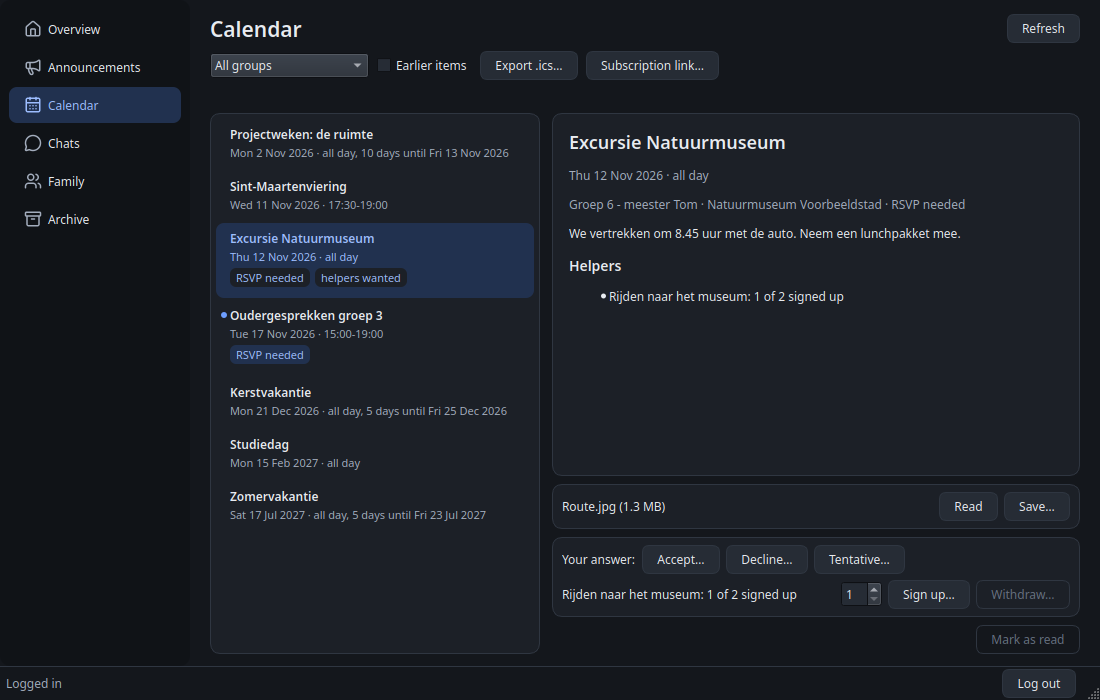
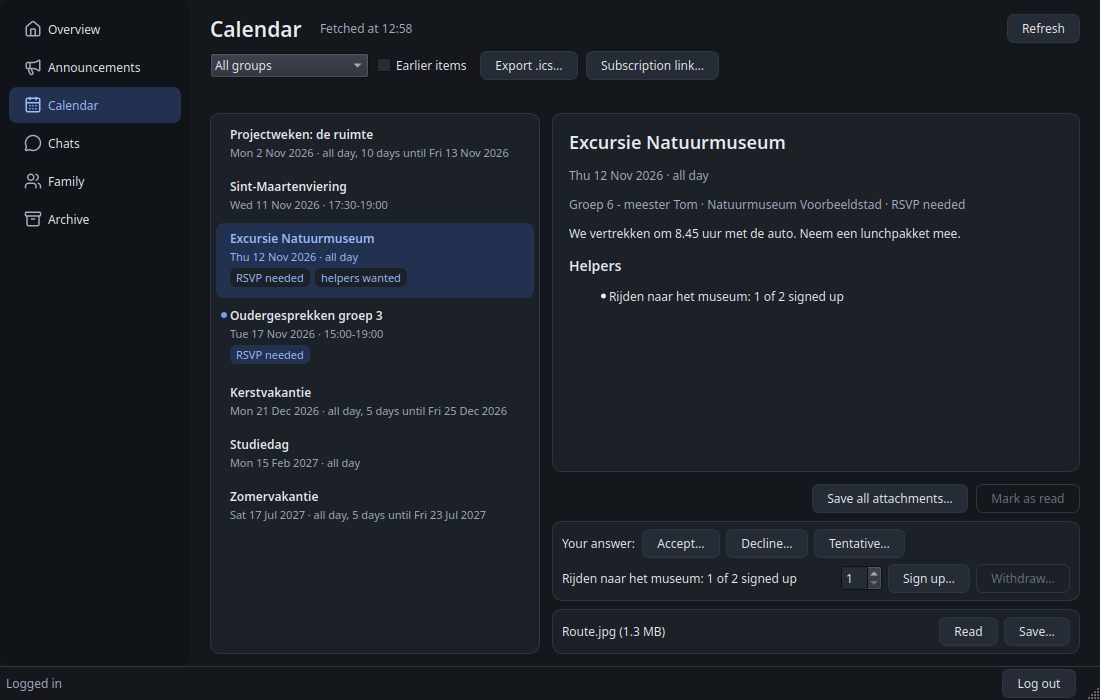
Docs for 0.11.0
The desktop app guide covers details that fit, Save all, the short memory
and logging in by itself; MCP.md the tool titles and hints; SECURITY.md
what is in scope for the remembered password file. The changelog has an
unreleased 0.11.0 section, and the desktop pictures show the new layout.

Changed region(s): [[0.4945, 0.72, 0.9891, 0.93], [0.7418, 0.69, 0.9891, 0.75], [0.2782, 0.03, 0.3709, 0.06]]

diff --git a/docs/DESKTOP-APP.md b/docs/DESKTOP-APP.md
@@ -29,13 +29,30 @@ keep working on Python 3.10 or newer.
 | Section | What you can do |
 | --- | --- |
 | Overview | what is new, or everything |
-| Announcements | filter by group or unread, read the news from Parro, read or save attachments, mark as read |
-| Calendar | coming up or earlier, filter by group, answer invitations, sign up or withdraw as a helper, export an `.ics` file, show the subscription link |
+| Announcements | filter by group or unread, read the news from Parro, read or save attachments (one or all at once), mark as read |
+| Calendar | coming up or earlier, filter by group, answer invitations, sign up or withdraw as a helper, save attachments (one or all at once), export an `.ics` file, show the subscription link |
 | Chats | the same filters as the command line, read a conversation, send a message, mark as read |
 | Family | the account, children, groups, the state of the privacy choices, the link to a child's privacy page |
 | Archive | keep a local copy with `sync`, stop it at any time, see and empty the cache |
 
 The commands `token` and `get` and the raw JSON output are left out: they are developer tools.
+
+**An announcement or calendar item with a lot in it** still fits in the window. Under the text is a
+row with *Save all attachments…* and *Mark as read*, which never scrolls away. Below that, the
+attachments and the answer and helper rows scroll when there are more than fit. Drag the line between
+the text and that lower part to give either more room; the lower part takes what it needs, up to
+half, until you do.
+
+**Save all attachments…** asks once for a folder, then saves every file of the item. It says how many
+it saved, and names each file that failed and why; click again to try those. A file with the same
+name is never replaced: the new one gets a number, such as `Nieuwsbrief (2).pdf`.
+
+**Fetched at 14:32**, next to a section's title, says how old what you see is. The app keeps what it
+fetched for 5 minutes, in memory only, so switching sections or going back to a filter choice is
+instant. After that, coming back loads again. **Refresh** always fetches, and so does every change
+you make: after *Mark as read*, an answer, a sign-up or a sent message, everything kept is dropped.
+Logging in or out drops it too. The Overview's unread counts can therefore be up to 5 minutes old,
+which the time next to them shows.
 
 ## Logging in
 
@@ -45,6 +62,37 @@ you end up on. Your password is not stored.
 
 The login server locks an account after a few failed attempts, so one click is one attempt and
 nothing is retried. After a rejected password the app says that login has stopped.
+
+### Logging in by itself
+
+A login lasts at most 8 hours ([LOGIN.md](LOGIN.md)). To skip typing the password every morning, put
+it in a file of its own and tick **"Log in by itself next time, with the password in this file"** in
+the login dialog. The app then logs in by itself when the login has expired: at start, and when it
+expires while the app is open. The rules are those of the command line:
+
+- **One password check** each time, never two, and never a retry.
+- **After a rejected password, nothing logs in by itself**, also not after a restart, until you log in
+  by hand in the dialog. The status bar says so.
+- **After you log out**, it waits for a login by hand too.
+- The status bar says when it did: *Logged in until … · logged in by itself at 08:12*.
+
+The app remembers only your e-mail address and **where** the file is, in `desktop-app.json` in its
+data folder (readable by you only). The password stays in your file, which must be private:
+
+```bash
+printf '%s' 'your password' > ~/.parro-password   # or create it with an editor
+chmod 600 ~/.parro-password
+```
+
+If others on the computer can read the file, the app does not use it and says why. Before it
+remembers anything, it checks that the file holds the password you typed, so a typo cannot stop the
+automatic logins later. To stop, untick the box and log in once. On Windows only "the file can be
+read" is checked: keep it in your own user folder.
+
+Started from a terminal, the app also uses `PARRO_USERNAME` and `PARRO_PASSWORD_FILE` (or
+`PARRO_PASSWORD`), like the command line; they win over what the dialog remembered. The app always
+uses the login form, also when `PARRO_LOGIN_METHOD` says `auto`, because `auto` can spend two
+password checks.
 
 ## Changing things
 

diff --git a/docs/PLAN-desktop-0.11.md b/docs/PLAN-desktop-0.11.md
@@ -1,6 +1,6 @@
 # Plan 14: version 0.11.0, a better desktop app and hints a scanner can read
 
-*Status: accepted (2026-11-12), with the recommended choice for all four decisions in §7. Not started.*
+*Status: in progress (2026-11-12): phases 1–6 done on branch `desktop-0.11`; the live check (phase 7) and the release are next. Decisions in §7.*
 
 **Goal:** five changes. Four are in the desktop app: details that always fit, saving all attachments at
 once, less waiting when you switch sections, and logging in by itself when you set that up. The fifth
@@ -151,12 +151,12 @@ small task: find out what M8ven needs, for example an entry in the MCP registry 
 
 | # | Phase | Done when |
 | --- | --- | --- |
-| 1 | **MCP hints in the source** (§5) | the `ast` guard test and `test_tool_hints.py` pass; `tools/list` is unchanged apart from the new titles |
-| 2 | **Details that fit** (§1) | the tests in §1 pass |
-| 3 | **Save all attachments** (§2) | tests against the fake API: one folder question, every file saved, failures named, nothing overwritten |
-| 4 | **Short memory and "Fetched at"** (§3) | tests: a kept answer within 5 minutes, a new load after it, *Refresh* and every change drop what was kept, nothing written to disk |
-| 5 | **Logging in by itself** (§4) | the tests in §4 pass |
-| 6 | **Docs:** `docs/DESKTOP-APP.md` (screens, password file, the memory), `docs/MCP.md`, `SECURITY.md` (the remembered path), changelog **0.11.0** | links and pictures checked |
+| 1 | ✅ **MCP hints in the source** (§5) | the `ast` guard test and `test_tool_hints.py` pass; `tools/list` is unchanged apart from the new titles |
+| 2 | ✅ **Details that fit** (§1) | the tests in §1 pass |
+| 3 | ✅ **Save all attachments** (§2) | tests against the fake API: one folder question, every file saved, failures named, nothing overwritten |
+| 4 | ✅ **Short memory and "Fetched at"** (§3) | tests: a kept answer within 5 minutes, a new load after it, *Refresh* and every change drop what was kept, nothing written to disk |
+| 5 | ✅ **Logging in by itself** (§4) | the tests in §4 pass |
+| 6 | ✅ **Docs:** `docs/DESKTOP-APP.md` (screens, password file, the memory), `docs/MCP.md`, `SECURITY.md` (the remembered path), changelog **0.11.0** | links and pictures checked |
 | 7 | **Live check with you:** the two items that broke the layout, switching sections, save all, and logging in by itself **once** (one password check) | in `docs/LIVE-CHECKS.md`; M8ven's report after the push |
 | 8 | Release **0.11.0** | published |
 

diff --git a/CHANGELOG.md b/CHANGELOG.md
@@ -4,6 +4,37 @@ All notable changes are listed here. The format follows [Keep a Changelog](https
 and versions follow [Semantic Versioning](https://semver.org/). The release workflow publishes the
 section of a version as its GitHub release notes, so write each section for users.
 
+## [0.11.0] - unreleased
+
+A better desktop app: details that always fit in the window, saving all attachments at once, less
+waiting when you switch sections, and logging in by itself from a password file. And the MCP tool
+hints can now be seen by services that read the code instead of running the server.
+
+### Added
+- **Save all attachments…** in Announcements and Calendar, next to *Mark as read*: one folder
+  question, then every file, with a report that names each file that failed.
+- **Logging in by itself** in the desktop app: tick the box in the login dialog and choose a private
+  file with your password. One password check when the login has expired, none after a rejected
+  password until you log in by hand. Only the e-mail address and the file's path are remembered.
+  `PARRO_USERNAME` and `PARRO_PASSWORD_FILE` work as in the command line.
+- **"Fetched at 14:32"** next to each section's title, and under an opened announcement.
+- Every MCP tool has a `title`.
+
+### Changed
+- An announcement or calendar item with long text, many attachments or many helper slots fits in the
+  window: *Mark as read* stays visible under the text, the attachments and the answer and helper rows
+  scroll, and a line you can drag shares the height between the two.
+- The desktop app keeps what it fetched for 5 minutes, in memory only, so switching sections or going
+  back to a filter choice is instant. **Refresh** and every change you make fetch again.
+- The MCP tool hints (`readOnlyHint` and the others) are written into each tool's definition in the
+  code, so services that read the code see them. What clients receive is unchanged.
+
+### Fixed
+- In the desktop app, *Mark as read* and the last answer or helper rows could fall off the bottom of
+  the window for an item with a lot in it, and could not be reached.
+- Saving an attachment claims the file name and writes it in one step, so a file that appears in the
+  meantime is not replaced either (also for `--save-to`).
+
 ## [0.10.0] - 2026-11-10
 
 A desktop app: `parro-client-gui` does what the command line does, in a window on Windows, macOS and

diff --git a/README.md b/README.md
@@ -189,11 +189,12 @@ parro-client-gui
 
 <picture>
   <source media="(prefers-color-scheme: dark)" srcset="https://raw.githubusercontent.com/chris-swift-dev/parro-api-client/main/docs/images/desktop-app-dark.png">
-  <img src="https://raw.githubusercontent.com/chris-swift-dev/parro-api-client/main/docs/images/desktop-app-light.png" width="800" alt="The desktop app showing the Calendar section: a sidebar with icons, a list of calendar items with labels, the details of a school trip, its attachment, and buttons to answer the invitation and to sign up as a helper. Invented example data.">
+  <img src="https://raw.githubusercontent.com/chris-swift-dev/parro-api-client/main/docs/images/desktop-app-light.png" width="800" alt="The desktop app showing the Calendar section: a sidebar with icons, a list of calendar items with labels, the details of a school trip, the buttons to save all attachments and to mark as read, the buttons to answer the invitation and to sign up as a helper, and the attachment. Invented example data.">
 </picture>
 
 It follows your system's light or dark setting. There is no web server or open port, and text from
-others stays text. It shares its login, cache and archive with the command line. More in **[docs/DESKTOP-APP.md](https://github.com/chris-swift-dev/parro-api-client/blob/main/docs/DESKTOP-APP.md)**.
+others stays text. It shares its login, cache and archive with the command line, and it can log in by
+itself from a password file, with the same one-attempt rule. More in **[docs/DESKTOP-APP.md](https://github.com/chris-swift-dev/parro-api-client/blob/main/docs/DESKTOP-APP.md)**.
 
 ## Changing things in Parro
 

diff --git a/docs/MCP.md b/docs/MCP.md
@@ -28,6 +28,12 @@ What `parro-client-mcp` offers to Claude and other MCP clients. How to add it to
 | `parro_helper_signup` / `parro_helper_withdraw` | Only with `PARRO_ALLOW_HELPER_SIGNUP=1`: a preview of signing up on a calendar item's helper slot (optional `count`) or withdrawing, or with `confirm: true` the change itself ([it is a promise in your name](CHANGING-THINGS.md#helping-out)). |
 | `parro_rsvp` | Only with `PARRO_ALLOW_RSVP=1`: a preview of answering a calendar item's invitation, or with `confirm: true` the answer itself ([the school sees it](CHANGING-THINGS.md#answering-an-invitation)). |
 
+Every tool has a `title` and the four hints MCP clients use to decide what to ask you first:
+`readOnlyHint` (the 16 tools that only read have it set), `destructiveHint`, `idempotentHint` and
+`openWorldHint`. They are written into each tool's definition in
+[`parro/mcp_server.py`](https://github.com/chris-swift-dev/parro-api-client/blob/main/parro/mcp_server.py), so services that grade a server by reading its code
+see them too; a test keeps them there and another checks that they are true.
+
 Every tool takes an optional `format`: `json` (default) or `markdown`, a readable view that keeps
 every id. The first 16 tools have the same names and arguments as the original server, so existing
 MCP configurations keep working.

diff --git a/SECURITY.md b/SECURITY.md
@@ -35,8 +35,10 @@ links, or names and messages from a real Parro account. Use invented data, like 
   around the lockout latch ([docs/LOGIN.md](docs/LOGIN.md)).
 
 For the desktop app, also: a change made without a click on Confirm (or the question for marking as
-read), a script or remote resource from Parro's content that gets loaded, and a link that opens
-without showing its address first.
+read), a script or remote resource from Parro's content that gets loaded, a link that opens without
+showing its address first, and for logging in by itself: a password that ends up in the app's own
+`desktop-app.json` (it holds only the e-mail address and the path of your password file), a password
+file used while others can read it, or more than one password check per expired login.
 
 The risk that text in Parro steers an assistant while `PARRO_ALLOW_SEND_CHAT=1`,
 `PARRO_ALLOW_HELPER_SIGNUP=1` or `PARRO_ALLOW_RSVP=1` is on is known and described in the README

diff --git a/docs/LOGIN.md b/docs/LOGIN.md
@@ -18,7 +18,9 @@ token's `exp` claim (for display only; the token is not verified, printed or log
 
 After 8 hours:
 * with `PARRO_USERNAME` and a password (file) set, the next call logs in again on its own, which is
-  one password check per 8 hours; a rejected password stops it (the latch below);
+  one password check per 8 hours; a rejected password stops it (the latch below). The desktop app
+  can do the same with a password file it remembers
+  ([DESKTOP-APP.md](DESKTOP-APP.md#logging-in-by-itself));
 * without them, `status` and every call say "not logged in" (exit code 3) and nothing is retried:
   run `login --prompt` again, or use the browser flow.
 
